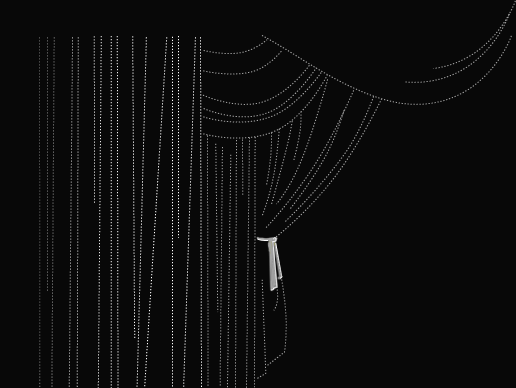
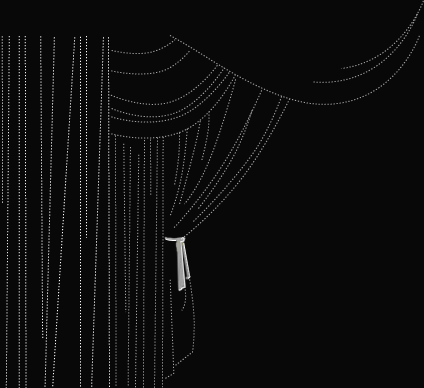
Mainpage CSS scroll-x fix 6.

diff --git a/web/css/new/screen.css b/web/css/new/screen.css
@@ -377,27 +377,16 @@ h2.dottedLine-full-title {
     line-height: 25px;
     text-transform: uppercase;
 }
-h2.dottedLine-full-title:after {
-    display: block;
-    margin: -13px 0 0 -350px;
-    height: 1px;
-    left: 100%;
-    position: absolute;
-    content: "";
-    width: 100%;
-    max-width: 502px;
-    background: url("../../img/new/main-border-bg.png") repeat-x scroll left bottom rgba(0, 0, 0, 0);
-}
 h2.dottedLine-full-title:before {
     display: block;
     margin: 13px -350px 0 0;
     height: 1px;
-    right: 100%;
+    left: 0;
     position: absolute;
     content: "";
     width: 100%;
-    max-width: 502px;
     background: url("../../img/new/main-border-bg.png") repeat-x scroll left bottom rgba(0, 0, 0, 0);
+    z-index: -1;
 }
 
 .lang-icon-wrapper {
@@ -408,6 +397,12 @@ h2.dottedLine-full-title:before {
 
 .m-firefox .b-menu:after {
 top: auto !important
+}
+
+.b-white-label {
+    background-color: #FFFFFF;
+    display: inline-block;
+    padding: 0 20px;
 }
 
 .b-header-inner {
@@ -2350,16 +2345,17 @@ position: relative;
 padding-top: 20px
 }
 
+
 .b-museums-block:after {
-content: "";
-display: block;
-left: 92%;
-position: absolute;
-top: 0;
-width: 176%;
-height: 100%;
-z-index: -1;
-background: url(../../img/new/column.png) 0 0 repeat-x
+    background: url(../../img/new/column.png) repeat-x scroll 0 0 rgba(0, 0, 0, 0);
+    content: "";
+    height: 100%;
+    left: 100%;
+    margin-left: -50px;
+    position: absolute;
+    top: 0;
+    width: 100%;
+    z-index: -1;
 }
 
 .b-museums-block .b-block-heading {
@@ -2497,27 +2493,32 @@ filter: alpha(opacity=100)
 color: #fff
 }
 
-
-.b-virtual-theatre:after {
-content: '';
-position: absolute;
-left: 100%;
-width: 100%;
-background: transparent url(../../img/new/b-virtual-full-3.png) 0 -22px no-repeat;
-bottom: 0;
-top: 0;
-margin-left: -140px
+.b-virtual-theatre .rightCurtain {
+    background: url(../../img/new/b-virtual-full-3.png) 0 -22px no-repeat transparent;
+    height: inherit;
+    margin-right: -250px;
+    position: absolute;
+    right: 0;
+    top: 0;
+    width: 424px;
 }
-
 .b-virtual-theatre:before {
-content: '';
-position: absolute;
-right: 100%;
-width: 100%;
-background: #080808 url(../../img/new/b-virtual-full-1.png) right -36px no-repeat;
-bottom: 0;
-top: 0;
-margin-right: -140px
+    background: url(../../img/new/b-virtual-full-1.png) right -36px no-repeat #080808;
+    content: "";
+    height: inherit;
+    position: absolute;
+    right: 780px;
+    width: 100%;
+}
+.b-virtual-theatre:after {
+    background-color: #080808;
+    content: "";
+    height: inherit;
+    position: absolute;
+    top: 0;
+    left: 100%;
+    width: 100%;
+    z-index: -1;
 }
 
 .b-virtual-theatre .b-service-heading {
@@ -2813,11 +2814,11 @@ html, body {
 height: 100%
 }
 
-body>div:first-child {
-min-height: 100%;
-min-width: 1200px;
-/*overflow: hidden;*/
-position: relative
+body > div:first-child {
+    min-height: 100%;
+    min-width: 1200px;
+    overflow: hidden;
+    position: relative;
 }
 
 .b-page {
@@ -2877,7 +2878,7 @@ border-bottom: 2px solid #ffd933
 }
 
 .b-main {
-position: relative;
+/*position: relative;*/
 padding-bottom: 40px
 }
 
